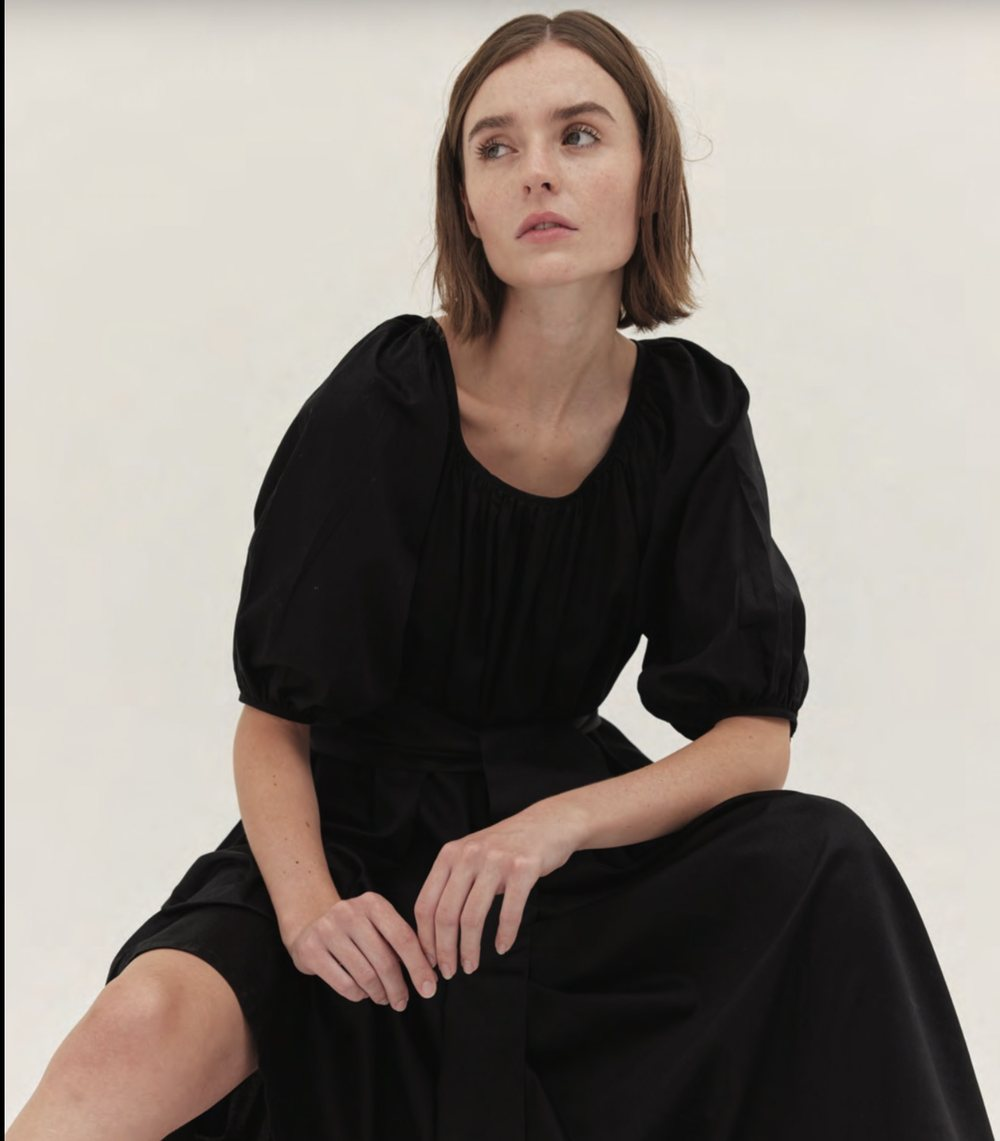
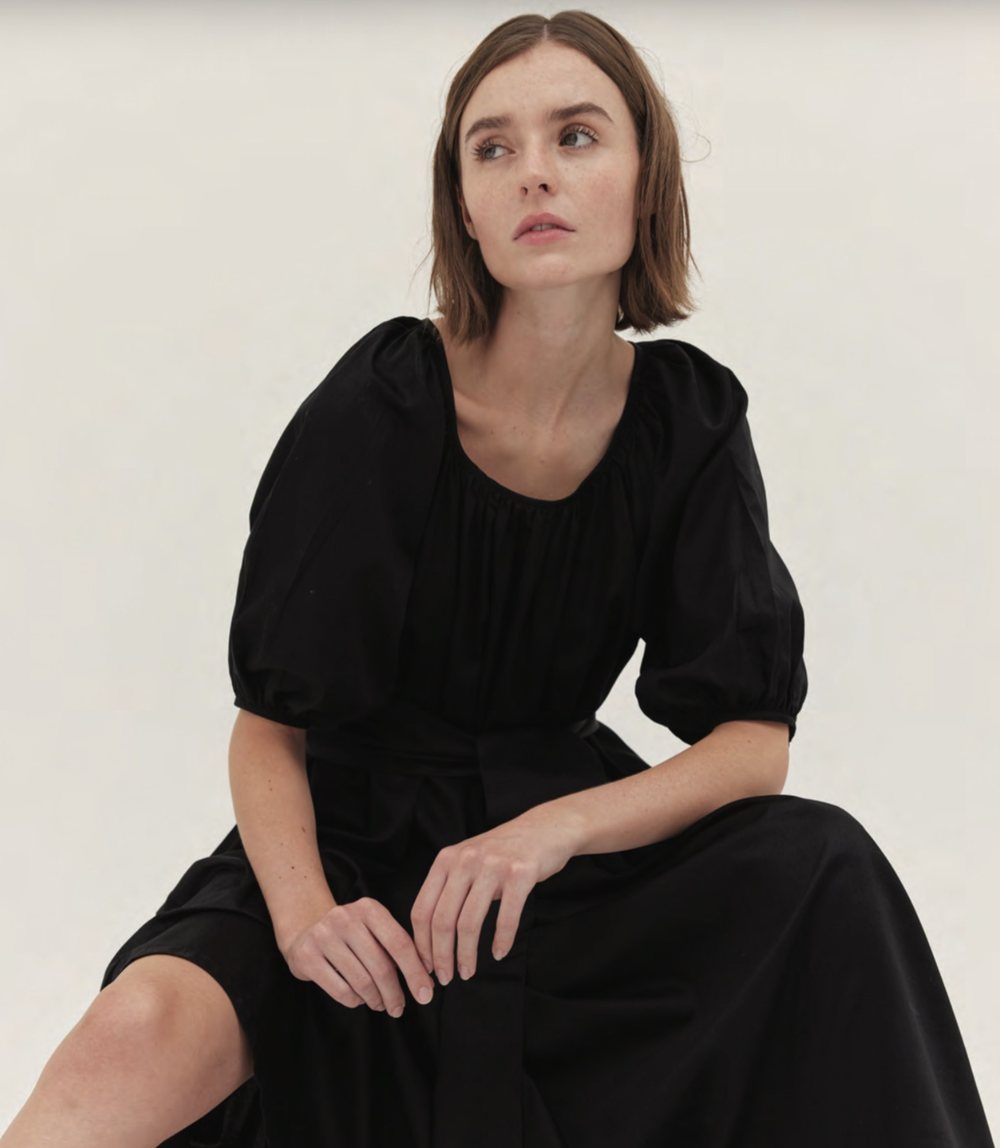
Crop black edge bands from five apparel photos
Measured bands, cropped with a 2px margin to clear the anti-aliased remnant:
  ap-01  left  6px      ap-02  left  8px
  ap-03  left 16px      ap-11  left  2px
  ap-10  bottom 4px

Detection also flagged a 219px black band along the bottom of ap-01, which is
not real: sampling the rows shows a gradual fall from mean RGB 106 to 48 over
320px, which is the black dress and its shadow rather than an artifact. Cropping
it would have cut the garment, so only the left edge was trimmed there.

Left columns now read the warm studio background (#DDD9D1-ish) rather than
black, matching the rest of the set.

diff --git a/index.html b/index.html
@@ -142,7 +142,7 @@
     <span class="eyebrow" data-rise>Our products</span>
     <h2 data-rise style="margin-bottom:1.8rem">What we make</h2>
   </div>
-  <div class="wrap" style="padding-inline:0"><div data-tabs><div class="tabs" role="tablist" aria-label="Product categories"><button class="tab" role="tab" id="b-ap" aria-controls="q-ap" aria-selected="true">Apparel</button><button class="tab" role="tab" id="b-hm" aria-controls="q-hm" aria-selected="false" tabindex="-1">Home &amp; Accessories</button></div><div class="panel" id="q-ap" role="tabpanel" aria-labelledby="b-ap"><div class="marquee prodband"><div class="marquee__track"><figure><picture><source srcset="assets/img/ap-01.webp" type="image/webp"><img src="assets/img/ap-01.jpg" alt="Black midi dress with gathered sleeves" width="1000" height="1141" sizes="260px" loading="lazy" decoding="async"></picture></figure><figure><picture><source srcset="assets/img/ap-10.webp" type="image/webp"><img src="assets/img/ap-10.jpg" alt="Striped waistcoat and matching trousers" width="1000" height="1221" sizes="260px" loading="lazy" decoding="async"></picture></figure><figure><picture><source srcset="assets/img/ap-12.webp" type="image/webp"><img src="assets/img/ap-12.jpg" alt="Long-line stone trench coat" width="893" height="1281" sizes="260px" loading="lazy" decoding="async"></picture></figure><figure><picture><source srcset="assets/img/ap-13.webp" type="image/webp"><img src="assets/img/ap-13.jpg" alt="White cotton shirt with open back detail" width="947" height="1271" sizes="260px" loading="lazy" decoding="async"></picture></figure><figure><picture><source srcset="assets/img/ap-03.webp" type="image/webp"><img src="assets/img/ap-03.jpg" alt="Oversized white cotton shirt" width="1000" height="1555" sizes="260px" loading="lazy" decoding="async"></picture></figure><figure><picture><source srcset="assets/img/ap-11.webp" type="image/webp"><img src="assets/img/ap-11.jpg" alt="Black cotton midi sundress" width="1000" height="1422" sizes="260px" loading="lazy" decoding="async"></picture></figure><figure><picture><source srcset="assets/img/ap-06.webp" type="image/webp"><img src="assets/img/ap-06.jpg" alt="Indigo belted jacket and shorts co-ord" width="1000" height="1639" sizes="260px" loading="lazy" decoding="async"></picture></figure><figure><picture><source srcset="assets/img/ap-05.webp" type="image/webp"><img src="assets/img/ap-05.jpg" alt="Sleeveless white overshirt" width="1000" height="1368" sizes="260px" loading="lazy" decoding="async"></picture></figure><figure><picture><source srcset="assets/img/ap-08.webp" type="image/webp"><img src="assets/img/ap-08.jpg" alt="Black cotton dress with puff sleeves" width="1000" height="1508" sizes="260px" loading="lazy" decoding="async"></picture></figure><figure><picture><source srcset="assets/img/ap-09.webp" type="image/webp"><img src="assets/img/ap-09.jpg" alt="Oversized linen blazer" width="1000" height="1199" sizes="260px" loading="lazy" decoding="async"></picture></figure><figure><picture><source srcset="assets/img/ap-04.webp" type="image/webp"><img src="assets/img/ap-04.jpg" alt="White shirt worn with straight-leg denim" width="1000" height="1555" sizes="260px" loading="lazy" decoding="async"></picture></figure><figure><picture><source srcset="assets/img/ap-02.webp" type="image/webp"><img src="assets/img/ap-02.jpg" alt="Tailored black blazer and trousers" width="1000" height="1334" sizes="260px" loading="lazy" decoding="async"></picture></figure><figure><picture><source srcset="assets/img/ap-07.webp" type="image/webp"><img src="assets/img/ap-07.jpg" alt="Denim workwear jacket and jeans" width="1000" height="1387" sizes="260px" loading="lazy" decoding="async"></picture></figure><figure><picture><source srcset="assets/img/re-02.webp" type="image/webp"><img src="assets/img/re-02.jpg" alt="Ikat print kaftan dress" width="1100" height="1334" sizes="260px" loading="lazy" decoding="async"></picture></figure><figure><picture><source srcset="assets/img/re-03.webp" type="image/webp"><img src="assets/img/re-03.jpg" alt="Ikat print shirt, flat lay" width="1000" height="1147" sizes="260px" loading="lazy" decoding="async"></picture></figure><figure><picture><source srcset="assets/img/re-04.webp" type="image/webp"><img src="assets/img/re-04.jpg" alt="Ikat print co-ord photographed outdoors" width="988" height="1316" sizes="260px" loading="lazy" decoding="async"></picture></figure><figure><picture><source srcset="assets/img/ap-14.webp" type="image/webp"><img src="assets/img/ap-14.jpg" alt="Olive linen jumpsuit with button placket" width="747" height="1120" sizes="260px" loading="lazy" decoding="async"></picture></figure><figure><picture><source srcset="assets/img/ap-15.webp" type="image/webp"><img src="assets/img/ap-15.jpg" alt="Pink oversized shirt with wide cuffs" width="853" height="1280" sizes="260px" loading="lazy" decoding="async"></picture></figure><figure><picture><source srcset="assets/img/ap-16.webp" type="image/webp"><img src="assets/img/ap-16.jpg" alt="Red linen shirt and shorts co-ord" width="853" height="1280" sizes="260px" loading="lazy" decoding="async"></picture></figure><figure><picture><source srcset="assets/img/ap-17.webp" type="image/webp"><img src="assets/img/ap-17.jpg" alt="Teal cami top and trousers set" width="747" height="1120" sizes="260px" loading="lazy" decoding="async"></picture></figure><span aria-hidden="true" style="display:contents"><figure><picture><source srcset="assets/img/ap-01.webp" type="image/webp"><img src="assets/img/ap-01.jpg" alt="Black midi dress with gathered sleeves" width="1000" height="1141" sizes="260px" loading="lazy" decoding="async"></picture></figure><figure><picture><source srcset="assets/img/ap-10.webp" type="image/webp"><img src="assets/img/ap-10.jpg" alt="Striped waistcoat and matching trousers" width="1000" height="1221" sizes="260px" loading="lazy" decoding="async"></picture></figure><figure><picture><source srcset="assets/img/ap-12.webp" type="image/webp"><img src="assets/img/ap-12.jpg" alt="Long-line stone trench coat" width="893" height="1281" sizes="260px" loading="lazy" decoding="async"></picture></figure><figure><picture><source srcset="assets/img/ap-13.webp" type="image/webp"><img src="assets/img/ap-13.jpg" alt="White cotton shirt with open back detail" width="947" height="1271" sizes="260px" loading="lazy" decoding="async"></picture></figure><figure><picture><source srcset="assets/img/ap-03.webp" type="image/webp"><img src="assets/img/ap-03.jpg" alt="Oversized white cotton shirt" width="1000" height="1555" sizes="260px" loading="lazy" decoding="async"></picture></figure><figure><picture><source srcset="assets/img/ap-11.webp" type="image/webp"><img src="assets/img/ap-11.jpg" alt="Black cotton midi sundress" width="1000" height="1422" sizes="260px" loading="lazy" decoding="async"></picture></figure><figure><picture><source srcset="assets/img/ap-06.webp" type="image/webp"><img src="assets/img/ap-06.jpg" alt="Indigo belted jacket and shorts co-ord" width="1000" height="1639" sizes="260px" loading="lazy" decoding="async"></picture></figure><figure><picture><source srcset="assets/img/ap-05.webp" type="image/webp"><img src="assets/img/ap-05.jpg" alt="Sleeveless white overshirt" width="1000" height="1368" sizes="260px" loading="lazy" decoding="async"></picture></figure><figure><picture><source srcset="assets/img/ap-08.webp" type="image/webp"><img src="assets/img/ap-08.jpg" alt="Black cotton dress with puff sleeves" width="1000" height="1508" sizes="260px" loading="lazy" decoding="async"></picture></figure><figure><picture><source srcset="assets/img/ap-09.webp" type="image/webp"><img src="assets/img/ap-09.jpg" alt="Oversized linen blazer" width="1000" height="1199" sizes="260px" loading="lazy" decoding="async"></picture></figure><figure><picture><source srcset="assets/img/ap-04.webp" type="image/webp"><img src="assets/img/ap-04.jpg" alt="White shirt worn with straight-leg denim" width="1000" height="1555" sizes="260px" loading="lazy" decoding="async"></picture></figure><figure><picture><source srcset="assets/img/ap-02.webp" type="image/webp"><img src="assets/img/ap-02.jpg" alt="Tailored black blazer and trousers" width="1000" height="1334" sizes="260px" loading="lazy" decoding="async"></picture></figure><figure><picture><source srcset="assets/img/ap-07.webp" type="image/webp"><img src="assets/img/ap-07.jpg" alt="Denim workwear jacket and jeans" width="1000" height="1387" sizes="260px" loading="lazy" decoding="async"></picture></figure><figure><picture><source srcset="assets/img/re-02.webp" type="image/webp"><img src="assets/img/re-02.jpg" alt="Ikat print kaftan dress" width="1100" height="1334" sizes="260px" loading="lazy" decoding="async"></picture></figure><figure><picture><source srcset="assets/img/re-03.webp" type="image/webp"><img src="assets/img/re-03.jpg" alt="Ikat print shirt, flat lay" width="1000" height="1147" sizes="260px" loading="lazy" decoding="async"></picture></figure><figure><picture><source srcset="assets/img/re-04.webp" type="image/webp"><img src="assets/img/re-04.jpg" alt="Ikat print co-ord photographed outdoors" width="988" height="1316" sizes="260px" loading="lazy" decoding="async"></picture></figure><figure><picture><source srcset="assets/img/ap-14.webp" type="image/webp"><img src="assets/img/ap-14.jpg" alt="Olive linen jumpsuit with button placket" width="747" height="1120" sizes="260px" loading="lazy" decoding="async"></picture></figure><figure><picture><source srcset="assets/img/ap-15.webp" type="image/webp"><img src="assets/img/ap-15.jpg" alt="Pink oversized shirt with wide cuffs" width="853" height="1280" sizes="260px" loading="lazy" decoding="async"></picture></figure><figure><picture><source srcset="assets/img/ap-16.webp" type="image/webp"><img src="assets/img/ap-16.jpg" alt="Red linen shirt and shorts co-ord" width="853" height="1280" sizes="260px" loading="lazy" decoding="async"></picture></figure><figure><picture><source srcset="assets/img/ap-17.webp" type="image/webp"><img src="assets/img/ap-17.jpg" alt="Teal cami top and trousers set" width="747" height="1120" sizes="260px" loading="lazy" decoding="async"></picture></figure></span></div></div></div><div class="panel" id="q-hm" role="tabpanel" aria-labelledby="b-hm" hidden><div class="marquee prodband"><div class="marquee__track"><figure><picture><source srcset="assets/img/hm-01.webp" type="image/webp"><img src="assets/img/hm-01.jpg" alt="Cushion covers in assorted weaves and prints" width="1100" height="973" sizes="260px" loading="lazy" decoding="async"></picture></figure><figure><picture><source srcset="assets/img/hm-02.webp" type="image/webp"><img src="assets/img/hm-02.jpg" alt="Neutral textured cushion covers" width="1100" height="815" sizes="260px" loading="lazy" decoding="async"></picture></figure><figure><picture><source srcset="assets/img/product-tote-bag.webp" type="image/webp"><img src="assets/img/product-tote-bag.jpg" alt="Olive green cotton tote bag" width="777" height="922" sizes="260px" loading="lazy" decoding="async"></picture></figure><figure><picture><source srcset="assets/img/product-drawstring-bag.webp" type="image/webp"><img src="assets/img/product-drawstring-bag.jpg" alt="Natural cotton drawstring bag" width="605" height="761" sizes="260px" loading="lazy" decoding="async"></picture></figure><span aria-hidden="true" style="display:contents"><figure><picture><source srcset="assets/img/hm-01.webp" type="image/webp"><img src="assets/img/hm-01.jpg" alt="Cushion covers in assorted weaves and prints" width="1100" height="973" sizes="260px" loading="lazy" decoding="async"></picture></figure><figure><picture><source srcset="assets/img/hm-02.webp" type="image/webp"><img src="assets/img/hm-02.jpg" alt="Neutral textured cushion covers" width="1100" height="815" sizes="260px" loading="lazy" decoding="async"></picture></figure><figure><picture><source srcset="assets/img/product-tote-bag.webp" type="image/webp"><img src="assets/img/product-tote-bag.jpg" alt="Olive green cotton tote bag" width="777" height="922" sizes="260px" loading="lazy" decoding="async"></picture></figure><figure><picture><source srcset="assets/img/product-drawstring-bag.webp" type="image/webp"><img src="assets/img/product-drawstring-bag.jpg" alt="Natural cotton drawstring bag" width="605" height="761" sizes="260px" loading="lazy" decoding="async"></picture></figure></span></div></div></div></div></div>
+  <div class="wrap" style="padding-inline:0"><div data-tabs><div class="tabs" role="tablist" aria-label="Product categories"><button class="tab" role="tab" id="b-ap" aria-controls="q-ap" aria-selected="true">Apparel</button><button class="tab" role="tab" id="b-hm" aria-controls="q-hm" aria-selected="false" tabindex="-1">Home &amp; Accessories</button></div><div class="panel" id="q-ap" role="tabpanel" aria-labelledby="b-ap"><div class="marquee prodband"><div class="marquee__track"><figure><picture><source srcset="assets/img/ap-01.webp" type="image/webp"><img src="assets/img/ap-01.jpg" alt="Black midi dress with gathered sleeves" width="1000" height="1148" sizes="260px" loading="lazy" decoding="async"></picture></figure><figure><picture><source srcset="assets/img/ap-10.webp" type="image/webp"><img src="assets/img/ap-10.jpg" alt="Striped waistcoat and matching trousers" width="1000" height="1216" sizes="260px" loading="lazy" decoding="async"></picture></figure><figure><picture><source srcset="assets/img/ap-12.webp" type="image/webp"><img src="assets/img/ap-12.jpg" alt="Long-line stone trench coat" width="893" height="1281" sizes="260px" loading="lazy" decoding="async"></picture></figure><figure><picture><source srcset="assets/img/ap-13.webp" type="image/webp"><img src="assets/img/ap-13.jpg" alt="White cotton shirt with open back detail" width="947" height="1271" sizes="260px" loading="lazy" decoding="async"></picture></figure><figure><picture><source srcset="assets/img/ap-03.webp" type="image/webp"><img src="assets/img/ap-03.jpg" alt="Oversized white cotton shirt" width="1000" height="1576" sizes="260px" loading="lazy" decoding="async"></picture></figure><figure><picture><source srcset="assets/img/ap-11.webp" type="image/webp"><img src="assets/img/ap-11.jpg" alt="Black cotton midi sundress" width="1000" height="1426" sizes="260px" loading="lazy" decoding="async"></picture></figure><figure><picture><source srcset="assets/img/ap-06.webp" type="image/webp"><img src="assets/img/ap-06.jpg" alt="Indigo belted jacket and shorts co-ord" width="1000" height="1639" sizes="260px" loading="lazy" decoding="async"></picture></figure><figure><picture><source srcset="assets/img/ap-05.webp" type="image/webp"><img src="assets/img/ap-05.jpg" alt="Sleeveless white overshirt" width="1000" height="1368" sizes="260px" loading="lazy" decoding="async"></picture></figure><figure><picture><source srcset="assets/img/ap-08.webp" type="image/webp"><img src="assets/img/ap-08.jpg" alt="Black cotton dress with puff sleeves" width="1000" height="1508" sizes="260px" loading="lazy" decoding="async"></picture></figure><figure><picture><source srcset="assets/img/ap-09.webp" type="image/webp"><img src="assets/img/ap-09.jpg" alt="Oversized linen blazer" width="1000" height="1199" sizes="260px" loading="lazy" decoding="async"></picture></figure><figure><picture><source srcset="assets/img/ap-04.webp" type="image/webp"><img src="assets/img/ap-04.jpg" alt="White shirt worn with straight-leg denim" width="1000" height="1555" sizes="260px" loading="lazy" decoding="async"></picture></figure><figure><picture><source srcset="assets/img/ap-02.webp" type="image/webp"><img src="assets/img/ap-02.jpg" alt="Tailored black blazer and trousers" width="1000" height="1344" sizes="260px" loading="lazy" decoding="async"></picture></figure><figure><picture><source srcset="assets/img/ap-07.webp" type="image/webp"><img src="assets/img/ap-07.jpg" alt="Denim workwear jacket and jeans" width="1000" height="1387" sizes="260px" loading="lazy" decoding="async"></picture></figure><figure><picture><source srcset="assets/img/re-02.webp" type="image/webp"><img src="assets/img/re-02.jpg" alt="Ikat print kaftan dress" width="1100" height="1334" sizes="260px" loading="lazy" decoding="async"></picture></figure><figure><picture><source srcset="assets/img/re-03.webp" type="image/webp"><img src="assets/img/re-03.jpg" alt="Ikat print shirt, flat lay" width="1000" height="1147" sizes="260px" loading="lazy" decoding="async"></picture></figure><figure><picture><source srcset="assets/img/re-04.webp" type="image/webp"><img src="assets/img/re-04.jpg" alt="Ikat print co-ord photographed outdoors" width="988" height="1316" sizes="260px" loading="lazy" decoding="async"></picture></figure><figure><picture><source srcset="assets/img/ap-14.webp" type="image/webp"><img src="assets/img/ap-14.jpg" alt="Olive linen jumpsuit with button placket" width="747" height="1120" sizes="260px" loading="lazy" decoding="async"></picture></figure><figure><picture><source srcset="assets/img/ap-15.webp" type="image/webp"><img src="assets/img/ap-15.jpg" alt="Pink oversized shirt with wide cuffs" width="853" height="1280" sizes="260px" loading="lazy" decoding="async"></picture></figure><figure><picture><source srcset="assets/img/ap-16.webp" type="image/webp"><img src="assets/img/ap-16.jpg" alt="Red linen shirt and shorts co-ord" width="853" height="1280" sizes="260px" loading="lazy" decoding="async"></picture></figure><figure><picture><source srcset="assets/img/ap-17.webp" type="image/webp"><img src="assets/img/ap-17.jpg" alt="Teal cami top and trousers set" width="747" height="1120" sizes="260px" loading="lazy" decoding="async"></picture></figure><span aria-hidden="true" style="display:contents"><figure><picture><source srcset="assets/img/ap-01.webp" type="image/webp"><img src="assets/img/ap-01.jpg" alt="Black midi dress with gathered sleeves" width="1000" height="1148" sizes="260px" loading="lazy" decoding="async"></picture></figure><figure><picture><source srcset="assets/img/ap-10.webp" type="image/webp"><img src="assets/img/ap-10.jpg" alt="Striped waistcoat and matching trousers" width="1000" height="1216" sizes="260px" loading="lazy" decoding="async"></picture></figure><figure><picture><source srcset="assets/img/ap-12.webp" type="image/webp"><img src="assets/img/ap-12.jpg" alt="Long-line stone trench coat" width="893" height="1281" sizes="260px" loading="lazy" decoding="async"></picture></figure><figure><picture><source srcset="assets/img/ap-13.webp" type="image/webp"><img src="assets/img/ap-13.jpg" alt="White cotton shirt with open back detail" width="947" height="1271" sizes="260px" loading="lazy" decoding="async"></picture></figure><figure><picture><source srcset="assets/img/ap-03.webp" type="image/webp"><img src="assets/img/ap-03.jpg" alt="Oversized white cotton shirt" width="1000" height="1576" sizes="260px" loading="lazy" decoding="async"></picture></figure><figure><picture><source srcset="assets/img/ap-11.webp" type="image/webp"><img src="assets/img/ap-11.jpg" alt="Black cotton midi sundress" width="1000" height="1426" sizes="260px" loading="lazy" decoding="async"></picture></figure><figure><picture><source srcset="assets/img/ap-06.webp" type="image/webp"><img src="assets/img/ap-06.jpg" alt="Indigo belted jacket and shorts co-ord" width="1000" height="1639" sizes="260px" loading="lazy" decoding="async"></picture></figure><figure><picture><source srcset="assets/img/ap-05.webp" type="image/webp"><img src="assets/img/ap-05.jpg" alt="Sleeveless white overshirt" width="1000" height="1368" sizes="260px" loading="lazy" decoding="async"></picture></figure><figure><picture><source srcset="assets/img/ap-08.webp" type="image/webp"><img src="assets/img/ap-08.jpg" alt="Black cotton dress with puff sleeves" width="1000" height="1508" sizes="260px" loading="lazy" decoding="async"></picture></figure><figure><picture><source srcset="assets/img/ap-09.webp" type="image/webp"><img src="assets/img/ap-09.jpg" alt="Oversized linen blazer" width="1000" height="1199" sizes="260px" loading="lazy" decoding="async"></picture></figure><figure><picture><source srcset="assets/img/ap-04.webp" type="image/webp"><img src="assets/img/ap-04.jpg" alt="White shirt worn with straight-leg denim" width="1000" height="1555" sizes="260px" loading="lazy" decoding="async"></picture></figure><figure><picture><source srcset="assets/img/ap-02.webp" type="image/webp"><img src="assets/img/ap-02.jpg" alt="Tailored black blazer and trousers" width="1000" height="1344" sizes="260px" loading="lazy" decoding="async"></picture></figure><figure><picture><source srcset="assets/img/ap-07.webp" type="image/webp"><img src="assets/img/ap-07.jpg" alt="Denim workwear jacket and jeans" width="1000" height="1387" sizes="260px" loading="lazy" decoding="async"></picture></figure><figure><picture><source srcset="assets/img/re-02.webp" type="image/webp"><img src="assets/img/re-02.jpg" alt="Ikat print kaftan dress" width="1100" height="1334" sizes="260px" loading="lazy" decoding="async"></picture></figure><figure><picture><source srcset="assets/img/re-03.webp" type="image/webp"><img src="assets/img/re-03.jpg" alt="Ikat print shirt, flat lay" width="1000" height="1147" sizes="260px" loading="lazy" decoding="async"></picture></figure><figure><picture><source srcset="assets/img/re-04.webp" type="image/webp"><img src="assets/img/re-04.jpg" alt="Ikat print co-ord photographed outdoors" width="988" height="1316" sizes="260px" loading="lazy" decoding="async"></picture></figure><figure><picture><source srcset="assets/img/ap-14.webp" type="image/webp"><img src="assets/img/ap-14.jpg" alt="Olive linen jumpsuit with button placket" width="747" height="1120" sizes="260px" loading="lazy" decoding="async"></picture></figure><figure><picture><source srcset="assets/img/ap-15.webp" type="image/webp"><img src="assets/img/ap-15.jpg" alt="Pink oversized shirt with wide cuffs" width="853" height="1280" sizes="260px" loading="lazy" decoding="async"></picture></figure><figure><picture><source srcset="assets/img/ap-16.webp" type="image/webp"><img src="assets/img/ap-16.jpg" alt="Red linen shirt and shorts co-ord" width="853" height="1280" sizes="260px" loading="lazy" decoding="async"></picture></figure><figure><picture><source srcset="assets/img/ap-17.webp" type="image/webp"><img src="assets/img/ap-17.jpg" alt="Teal cami top and trousers set" width="747" height="1120" sizes="260px" loading="lazy" decoding="async"></picture></figure></span></div></div></div><div class="panel" id="q-hm" role="tabpanel" aria-labelledby="b-hm" hidden><div class="marquee prodband"><div class="marquee__track"><figure><picture><source srcset="assets/img/hm-01.webp" type="image/webp"><img src="assets/img/hm-01.jpg" alt="Cushion covers in assorted weaves and prints" width="1100" height="973" sizes="260px" loading="lazy" decoding="async"></picture></figure><figure><picture><source srcset="assets/img/hm-02.webp" type="image/webp"><img src="assets/img/hm-02.jpg" alt="Neutral textured cushion covers" width="1100" height="815" sizes="260px" loading="lazy" decoding="async"></picture></figure><figure><picture><source srcset="assets/img/product-tote-bag.webp" type="image/webp"><img src="assets/img/product-tote-bag.jpg" alt="Olive green cotton tote bag" width="777" height="922" sizes="260px" loading="lazy" decoding="async"></picture></figure><figure><picture><source srcset="assets/img/product-drawstring-bag.webp" type="image/webp"><img src="assets/img/product-drawstring-bag.jpg" alt="Natural cotton drawstring bag" width="605" height="761" sizes="260px" loading="lazy" decoding="async"></picture></figure><span aria-hidden="true" style="display:contents"><figure><picture><source srcset="assets/img/hm-01.webp" type="image/webp"><img src="assets/img/hm-01.jpg" alt="Cushion covers in assorted weaves and prints" width="1100" height="973" sizes="260px" loading="lazy" decoding="async"></picture></figure><figure><picture><source srcset="assets/img/hm-02.webp" type="image/webp"><img src="assets/img/hm-02.jpg" alt="Neutral textured cushion covers" width="1100" height="815" sizes="260px" loading="lazy" decoding="async"></picture></figure><figure><picture><source srcset="assets/img/product-tote-bag.webp" type="image/webp"><img src="assets/img/product-tote-bag.jpg" alt="Olive green cotton tote bag" width="777" height="922" sizes="260px" loading="lazy" decoding="async"></picture></figure><figure><picture><source srcset="assets/img/product-drawstring-bag.webp" type="image/webp"><img src="assets/img/product-drawstring-bag.jpg" alt="Natural cotton drawstring bag" width="605" height="761" sizes="260px" loading="lazy" decoding="async"></picture></figure></span></div></div></div></div></div>
   <div class="wrap"><div class="btns"><a class="btn btn--ghost" href="products.html">See the full range</a></div></div>
 </section>
 

diff --git a/products.html b/products.html
@@ -129,7 +129,7 @@
 </section>
 
 <section class="wrap" style="padding-bottom:var(--s-l)">
-  <div data-rise><div data-tabs><div class="tabs" role="tablist" aria-label="Product categories"><button class="tab" role="tab" id="t-ap" aria-controls="p-ap" aria-selected="true">Apparel</button><button class="tab" role="tab" id="t-hm" aria-controls="p-hm" aria-selected="false" tabindex="-1">Home &amp; Accessories</button></div><div class="panel" id="p-ap" role="tabpanel" aria-labelledby="t-ap"><div class="gal gal--prod" data-showcase data-set="products" data-label="Apparel"><a href="assets/img/ap-01.jpg" data-w="1000" data-h="1141" data-cap="Black midi dress with gathered sleeves"><picture><source srcset="assets/img/ap-01.webp" type="image/webp"><img src="assets/img/ap-01.jpg" alt="Black midi dress with gathered sleeves" width="1000" height="1141" sizes="(min-width:980px) 24vw, (min-width:620px) 46vw, 92vw" loading="lazy" decoding="async"></picture></a><a href="assets/img/ap-10.jpg" data-w="1000" data-h="1221" data-cap="Striped waistcoat and matching trousers"><picture><source srcset="assets/img/ap-10.webp" type="image/webp"><img src="assets/img/ap-10.jpg" alt="Striped waistcoat and matching trousers" width="1000" height="1221" sizes="(min-width:980px) 24vw, (min-width:620px) 46vw, 92vw" loading="lazy" decoding="async"></picture></a><a href="assets/img/ap-12.jpg" data-w="893" data-h="1281" data-cap="Long-line stone trench coat"><picture><source srcset="assets/img/ap-12.webp" type="image/webp"><img src="assets/img/ap-12.jpg" alt="Long-line stone trench coat" width="893" height="1281" sizes="(min-width:980px) 24vw, (min-width:620px) 46vw, 92vw" loading="lazy" decoding="async"></picture></a><a href="assets/img/ap-13.jpg" data-w="947" data-h="1271" data-cap="White cotton shirt with open back detail"><picture><source srcset="assets/img/ap-13.webp" type="image/webp"><img src="assets/img/ap-13.jpg" alt="White cotton shirt with open back detail" width="947" height="1271" sizes="(min-width:980px) 24vw, (min-width:620px) 46vw, 92vw" loading="lazy" decoding="async"></picture></a><a href="assets/img/ap-03.jpg" data-w="1000" data-h="1555" data-cap="Oversized white cotton shirt"><picture><source srcset="assets/img/ap-03.webp" type="image/webp"><img src="assets/img/ap-03.jpg" alt="Oversized white cotton shirt" width="1000" height="1555" sizes="(min-width:980px) 24vw, (min-width:620px) 46vw, 92vw" loading="lazy" decoding="async"></picture></a><a href="assets/img/ap-11.jpg" data-w="1000" data-h="1422" data-cap="Black cotton midi sundress"><picture><source srcset="assets/img/ap-11.webp" type="image/webp"><img src="assets/img/ap-11.jpg" alt="Black cotton midi sundress" width="1000" height="1422" sizes="(min-width:980px) 24vw, (min-width:620px) 46vw, 92vw" loading="lazy" decoding="async"></picture></a><a href="assets/img/ap-06.jpg" data-w="1000" data-h="1639" data-cap="Indigo belted jacket and shorts co-ord"><picture><source srcset="assets/img/ap-06.webp" type="image/webp"><img src="assets/img/ap-06.jpg" alt="Indigo belted jacket and shorts co-ord" width="1000" height="1639" sizes="(min-width:980px) 24vw, (min-width:620px) 46vw, 92vw" loading="lazy" decoding="async"></picture></a><a href="assets/img/ap-05.jpg" data-w="1000" data-h="1368" data-cap="Sleeveless white overshirt"><picture><source srcset="assets/img/ap-05.webp" type="image/webp"><img src="assets/img/ap-05.jpg" alt="Sleeveless white overshirt" width="1000" height="1368" sizes="(min-width:980px) 24vw, (min-width:620px) 46vw, 92vw" loading="lazy" decoding="async"></picture></a><a href="assets/img/ap-08.jpg" data-w="1000" data-h="1508" data-cap="Black cotton dress with puff sleeves"><picture><source srcset="assets/img/ap-08.webp" type="image/webp"><img src="assets/img/ap-08.jpg" alt="Black cotton dress with puff sleeves" width="1000" height="1508" sizes="(min-width:980px) 24vw, (min-width:620px) 46vw, 92vw" loading="lazy" decoding="async"></picture></a><a href="assets/img/ap-09.jpg" data-w="1000" data-h="1199" data-cap="Oversized linen blazer"><picture><source srcset="assets/img/ap-09.webp" type="image/webp"><img src="assets/img/ap-09.jpg" alt="Oversized linen blazer" width="1000" height="1199" sizes="(min-width:980px) 24vw, (min-width:620px) 46vw, 92vw" loading="lazy" decoding="async"></picture></a><a href="assets/img/ap-04.jpg" data-w="1000" data-h="1555" data-cap="White shirt worn with straight-leg denim"><picture><source srcset="assets/img/ap-04.webp" type="image/webp"><img src="assets/img/ap-04.jpg" alt="White shirt worn with straight-leg denim" width="1000" height="1555" sizes="(min-width:980px) 24vw, (min-width:620px) 46vw, 92vw" loading="lazy" decoding="async"></picture></a><a href="assets/img/ap-02.jpg" data-w="1000" data-h="1334" data-cap="Tailored black blazer and trousers"><picture><source srcset="assets/img/ap-02.webp" type="image/webp"><img src="assets/img/ap-02.jpg" alt="Tailored black blazer and trousers" width="1000" height="1334" sizes="(min-width:980px) 24vw, (min-width:620px) 46vw, 92vw" loading="lazy" decoding="async"></picture></a><a href="assets/img/ap-07.jpg" data-w="1000" data-h="1387" data-cap="Denim workwear jacket and jeans"><picture><source srcset="assets/img/ap-07.webp" type="image/webp"><img src="assets/img/ap-07.jpg" alt="Denim workwear jacket and jeans" width="1000" height="1387" sizes="(min-width:980px) 24vw, (min-width:620px) 46vw, 92vw" loading="lazy" decoding="async"></picture></a><a href="assets/img/re-02.jpg" data-w="1100" data-h="1334" data-cap="Ikat print kaftan dress"><picture><source srcset="assets/img/re-02.webp" type="image/webp"><img src="assets/img/re-02.jpg" alt="Ikat print kaftan dress" width="1100" height="1334" sizes="(min-width:980px) 24vw, (min-width:620px) 46vw, 92vw" loading="lazy" decoding="async"></picture></a><a href="assets/img/re-03.jpg" data-w="1000" data-h="1147" data-cap="Ikat print shirt, flat lay"><picture><source srcset="assets/img/re-03.webp" type="image/webp"><img src="assets/img/re-03.jpg" alt="Ikat print shirt, flat lay" width="1000" height="1147" sizes="(min-width:980px) 24vw, (min-width:620px) 46vw, 92vw" loading="lazy" decoding="async"></picture></a><a href="assets/img/re-04.jpg" data-w="988" data-h="1316" data-cap="Ikat print co-ord photographed outdoors"><picture><source srcset="assets/img/re-04.webp" type="image/webp"><img src="assets/img/re-04.jpg" alt="Ikat print co-ord photographed outdoors" width="988" height="1316" sizes="(min-width:980px) 24vw, (min-width:620px) 46vw, 92vw" loading="lazy" decoding="async"></picture></a><a href="assets/img/ap-14.jpg" data-w="747" data-h="1120" data-cap="Olive linen jumpsuit with button placket"><picture><source srcset="assets/img/ap-14.webp" type="image/webp"><img src="assets/img/ap-14.jpg" alt="Olive linen jumpsuit with button placket" width="747" height="1120" sizes="(min-width:980px) 24vw, (min-width:620px) 46vw, 92vw" loading="lazy" decoding="async"></picture></a><a href="assets/img/ap-15.jpg" data-w="853" data-h="1280" data-cap="Pink oversized shirt with wide cuffs"><picture><source srcset="assets/img/ap-15.webp" type="image/webp"><img src="assets/img/ap-15.jpg" alt="Pink oversized shirt with wide cuffs" width="853" height="1280" sizes="(min-width:980px) 24vw, (min-width:620px) 46vw, 92vw" loading="lazy" decoding="async"></picture></a><a href="assets/img/ap-16.jpg" data-w="853" data-h="1280" data-cap="Red linen shirt and shorts co-ord"><picture><source srcset="assets/img/ap-16.webp" type="image/webp"><img src="assets/img/ap-16.jpg" alt="Red linen shirt and shorts co-ord" width="853" height="1280" sizes="(min-width:980px) 24vw, (min-width:620px) 46vw, 92vw" loading="lazy" decoding="async"></picture></a><a href="assets/img/ap-17.jpg" data-w="747" data-h="1120" data-cap="Teal cami top and trousers set"><picture><source srcset="assets/img/ap-17.webp" type="image/webp"><img src="assets/img/ap-17.jpg" alt="Teal cami top and trousers set" width="747" height="1120" sizes="(min-width:980px) 24vw, (min-width:620px) 46vw, 92vw" loading="lazy" decoding="async"></picture></a></div></div><div class="panel" id="p-hm" role="tabpanel" aria-labelledby="t-hm" hidden><div class="gal gal--prod gal--wide" data-showcase data-set="products" data-label="Home &amp; Accessories"><a href="assets/img/hm-01.jpg" data-w="1100" data-h="973" data-cap="Cushion covers in assorted weaves and prints"><picture><source srcset="assets/img/hm-01.webp" type="image/webp"><img src="assets/img/hm-01.jpg" alt="Cushion covers in assorted weaves and prints" width="1100" height="973" sizes="(min-width:980px) 24vw, (min-width:620px) 46vw, 92vw" loading="lazy" decoding="async"></picture></a><a href="assets/img/hm-02.jpg" data-w="1100" data-h="815" data-cap="Neutral textured cushion covers"><picture><source srcset="assets/img/hm-02.webp" type="image/webp"><img src="assets/img/hm-02.jpg" alt="Neutral textured cushion covers" width="1100" height="815" sizes="(min-width:980px) 24vw, (min-width:620px) 46vw, 92vw" loading="lazy" decoding="async"></picture></a><a href="assets/img/product-tote-bag.jpg" data-w="777" data-h="922" data-cap="Olive green cotton tote bag"><picture><source srcset="assets/img/product-tote-bag.webp" type="image/webp"><img src="assets/img/product-tote-bag.jpg" alt="Olive green cotton tote bag" width="777" height="922" sizes="(min-width:980px) 24vw, (min-width:620px) 46vw, 92vw" loading="lazy" decoding="async"></picture></a><a href="assets/img/product-drawstring-bag.jpg" data-w="605" data-h="761" data-cap="Natural cotton drawstring bag"><picture><source srcset="assets/img/product-drawstring-bag.webp" type="image/webp"><img src="assets/img/product-drawstring-bag.jpg" alt="Natural cotton drawstring bag" width="605" height="761" sizes="(min-width:980px) 24vw, (min-width:620px) 46vw, 92vw" loading="lazy" decoding="async"></picture></a></div></div></div></div>
+  <div data-rise><div data-tabs><div class="tabs" role="tablist" aria-label="Product categories"><button class="tab" role="tab" id="t-ap" aria-controls="p-ap" aria-selected="true">Apparel</button><button class="tab" role="tab" id="t-hm" aria-controls="p-hm" aria-selected="false" tabindex="-1">Home &amp; Accessories</button></div><div class="panel" id="p-ap" role="tabpanel" aria-labelledby="t-ap"><div class="gal gal--prod" data-showcase data-set="products" data-label="Apparel"><a href="assets/img/ap-01.jpg" data-w="1000" data-h="1148" data-cap="Black midi dress with gathered sleeves"><picture><source srcset="assets/img/ap-01.webp" type="image/webp"><img src="assets/img/ap-01.jpg" alt="Black midi dress with gathered sleeves" width="1000" height="1148" sizes="(min-width:980px) 24vw, (min-width:620px) 46vw, 92vw" loading="lazy" decoding="async"></picture></a><a href="assets/img/ap-10.jpg" data-w="1000" data-h="1216" data-cap="Striped waistcoat and matching trousers"><picture><source srcset="assets/img/ap-10.webp" type="image/webp"><img src="assets/img/ap-10.jpg" alt="Striped waistcoat and matching trousers" width="1000" height="1216" sizes="(min-width:980px) 24vw, (min-width:620px) 46vw, 92vw" loading="lazy" decoding="async"></picture></a><a href="assets/img/ap-12.jpg" data-w="893" data-h="1281" data-cap="Long-line stone trench coat"><picture><source srcset="assets/img/ap-12.webp" type="image/webp"><img src="assets/img/ap-12.jpg" alt="Long-line stone trench coat" width="893" height="1281" sizes="(min-width:980px) 24vw, (min-width:620px) 46vw, 92vw" loading="lazy" decoding="async"></picture></a><a href="assets/img/ap-13.jpg" data-w="947" data-h="1271" data-cap="White cotton shirt with open back detail"><picture><source srcset="assets/img/ap-13.webp" type="image/webp"><img src="assets/img/ap-13.jpg" alt="White cotton shirt with open back detail" width="947" height="1271" sizes="(min-width:980px) 24vw, (min-width:620px) 46vw, 92vw" loading="lazy" decoding="async"></picture></a><a href="assets/img/ap-03.jpg" data-w="1000" data-h="1576" data-cap="Oversized white cotton shirt"><picture><source srcset="assets/img/ap-03.webp" type="image/webp"><img src="assets/img/ap-03.jpg" alt="Oversized white cotton shirt" width="1000" height="1576" sizes="(min-width:980px) 24vw, (min-width:620px) 46vw, 92vw" loading="lazy" decoding="async"></picture></a><a href="assets/img/ap-11.jpg" data-w="1000" data-h="1426" data-cap="Black cotton midi sundress"><picture><source srcset="assets/img/ap-11.webp" type="image/webp"><img src="assets/img/ap-11.jpg" alt="Black cotton midi sundress" width="1000" height="1426" sizes="(min-width:980px) 24vw, (min-width:620px) 46vw, 92vw" loading="lazy" decoding="async"></picture></a><a href="assets/img/ap-06.jpg" data-w="1000" data-h="1639" data-cap="Indigo belted jacket and shorts co-ord"><picture><source srcset="assets/img/ap-06.webp" type="image/webp"><img src="assets/img/ap-06.jpg" alt="Indigo belted jacket and shorts co-ord" width="1000" height="1639" sizes="(min-width:980px) 24vw, (min-width:620px) 46vw, 92vw" loading="lazy" decoding="async"></picture></a><a href="assets/img/ap-05.jpg" data-w="1000" data-h="1368" data-cap="Sleeveless white overshirt"><picture><source srcset="assets/img/ap-05.webp" type="image/webp"><img src="assets/img/ap-05.jpg" alt="Sleeveless white overshirt" width="1000" height="1368" sizes="(min-width:980px) 24vw, (min-width:620px) 46vw, 92vw" loading="lazy" decoding="async"></picture></a><a href="assets/img/ap-08.jpg" data-w="1000" data-h="1508" data-cap="Black cotton dress with puff sleeves"><picture><source srcset="assets/img/ap-08.webp" type="image/webp"><img src="assets/img/ap-08.jpg" alt="Black cotton dress with puff sleeves" width="1000" height="1508" sizes="(min-width:980px) 24vw, (min-width:620px) 46vw, 92vw" loading="lazy" decoding="async"></picture></a><a href="assets/img/ap-09.jpg" data-w="1000" data-h="1199" data-cap="Oversized linen blazer"><picture><source srcset="assets/img/ap-09.webp" type="image/webp"><img src="assets/img/ap-09.jpg" alt="Oversized linen blazer" width="1000" height="1199" sizes="(min-width:980px) 24vw, (min-width:620px) 46vw, 92vw" loading="lazy" decoding="async"></picture></a><a href="assets/img/ap-04.jpg" data-w="1000" data-h="1555" data-cap="White shirt worn with straight-leg denim"><picture><source srcset="assets/img/ap-04.webp" type="image/webp"><img src="assets/img/ap-04.jpg" alt="White shirt worn with straight-leg denim" width="1000" height="1555" sizes="(min-width:980px) 24vw, (min-width:620px) 46vw, 92vw" loading="lazy" decoding="async"></picture></a><a href="assets/img/ap-02.jpg" data-w="1000" data-h="1344" data-cap="Tailored black blazer and trousers"><picture><source srcset="assets/img/ap-02.webp" type="image/webp"><img src="assets/img/ap-02.jpg" alt="Tailored black blazer and trousers" width="1000" height="1344" sizes="(min-width:980px) 24vw, (min-width:620px) 46vw, 92vw" loading="lazy" decoding="async"></picture></a><a href="assets/img/ap-07.jpg" data-w="1000" data-h="1387" data-cap="Denim workwear jacket and jeans"><picture><source srcset="assets/img/ap-07.webp" type="image/webp"><img src="assets/img/ap-07.jpg" alt="Denim workwear jacket and jeans" width="1000" height="1387" sizes="(min-width:980px) 24vw, (min-width:620px) 46vw, 92vw" loading="lazy" decoding="async"></picture></a><a href="assets/img/re-02.jpg" data-w="1100" data-h="1334" data-cap="Ikat print kaftan dress"><picture><source srcset="assets/img/re-02.webp" type="image/webp"><img src="assets/img/re-02.jpg" alt="Ikat print kaftan dress" width="1100" height="1334" sizes="(min-width:980px) 24vw, (min-width:620px) 46vw, 92vw" loading="lazy" decoding="async"></picture></a><a href="assets/img/re-03.jpg" data-w="1000" data-h="1147" data-cap="Ikat print shirt, flat lay"><picture><source srcset="assets/img/re-03.webp" type="image/webp"><img src="assets/img/re-03.jpg" alt="Ikat print shirt, flat lay" width="1000" height="1147" sizes="(min-width:980px) 24vw, (min-width:620px) 46vw, 92vw" loading="lazy" decoding="async"></picture></a><a href="assets/img/re-04.jpg" data-w="988" data-h="1316" data-cap="Ikat print co-ord photographed outdoors"><picture><source srcset="assets/img/re-04.webp" type="image/webp"><img src="assets/img/re-04.jpg" alt="Ikat print co-ord photographed outdoors" width="988" height="1316" sizes="(min-width:980px) 24vw, (min-width:620px) 46vw, 92vw" loading="lazy" decoding="async"></picture></a><a href="assets/img/ap-14.jpg" data-w="747" data-h="1120" data-cap="Olive linen jumpsuit with button placket"><picture><source srcset="assets/img/ap-14.webp" type="image/webp"><img src="assets/img/ap-14.jpg" alt="Olive linen jumpsuit with button placket" width="747" height="1120" sizes="(min-width:980px) 24vw, (min-width:620px) 46vw, 92vw" loading="lazy" decoding="async"></picture></a><a href="assets/img/ap-15.jpg" data-w="853" data-h="1280" data-cap="Pink oversized shirt with wide cuffs"><picture><source srcset="assets/img/ap-15.webp" type="image/webp"><img src="assets/img/ap-15.jpg" alt="Pink oversized shirt with wide cuffs" width="853" height="1280" sizes="(min-width:980px) 24vw, (min-width:620px) 46vw, 92vw" loading="lazy" decoding="async"></picture></a><a href="assets/img/ap-16.jpg" data-w="853" data-h="1280" data-cap="Red linen shirt and shorts co-ord"><picture><source srcset="assets/img/ap-16.webp" type="image/webp"><img src="assets/img/ap-16.jpg" alt="Red linen shirt and shorts co-ord" width="853" height="1280" sizes="(min-width:980px) 24vw, (min-width:620px) 46vw, 92vw" loading="lazy" decoding="async"></picture></a><a href="assets/img/ap-17.jpg" data-w="747" data-h="1120" data-cap="Teal cami top and trousers set"><picture><source srcset="assets/img/ap-17.webp" type="image/webp"><img src="assets/img/ap-17.jpg" alt="Teal cami top and trousers set" width="747" height="1120" sizes="(min-width:980px) 24vw, (min-width:620px) 46vw, 92vw" loading="lazy" decoding="async"></picture></a></div></div><div class="panel" id="p-hm" role="tabpanel" aria-labelledby="t-hm" hidden><div class="gal gal--prod gal--wide" data-showcase data-set="products" data-label="Home &amp; Accessories"><a href="assets/img/hm-01.jpg" data-w="1100" data-h="973" data-cap="Cushion covers in assorted weaves and prints"><picture><source srcset="assets/img/hm-01.webp" type="image/webp"><img src="assets/img/hm-01.jpg" alt="Cushion covers in assorted weaves and prints" width="1100" height="973" sizes="(min-width:980px) 24vw, (min-width:620px) 46vw, 92vw" loading="lazy" decoding="async"></picture></a><a href="assets/img/hm-02.jpg" data-w="1100" data-h="815" data-cap="Neutral textured cushion covers"><picture><source srcset="assets/img/hm-02.webp" type="image/webp"><img src="assets/img/hm-02.jpg" alt="Neutral textured cushion covers" width="1100" height="815" sizes="(min-width:980px) 24vw, (min-width:620px) 46vw, 92vw" loading="lazy" decoding="async"></picture></a><a href="assets/img/product-tote-bag.jpg" data-w="777" data-h="922" data-cap="Olive green cotton tote bag"><picture><source srcset="assets/img/product-tote-bag.webp" type="image/webp"><img src="assets/img/product-tote-bag.jpg" alt="Olive green cotton tote bag" width="777" height="922" sizes="(min-width:980px) 24vw, (min-width:620px) 46vw, 92vw" loading="lazy" decoding="async"></picture></a><a href="assets/img/product-drawstring-bag.jpg" data-w="605" data-h="761" data-cap="Natural cotton drawstring bag"><picture><source srcset="assets/img/product-drawstring-bag.webp" type="image/webp"><img src="assets/img/product-drawstring-bag.jpg" alt="Natural cotton drawstring bag" width="605" height="761" sizes="(min-width:980px) 24vw, (min-width:620px) 46vw, 92vw" loading="lazy" decoding="async"></picture></a></div></div></div></div>
 </section>
 
 <section class="section section--tint">
